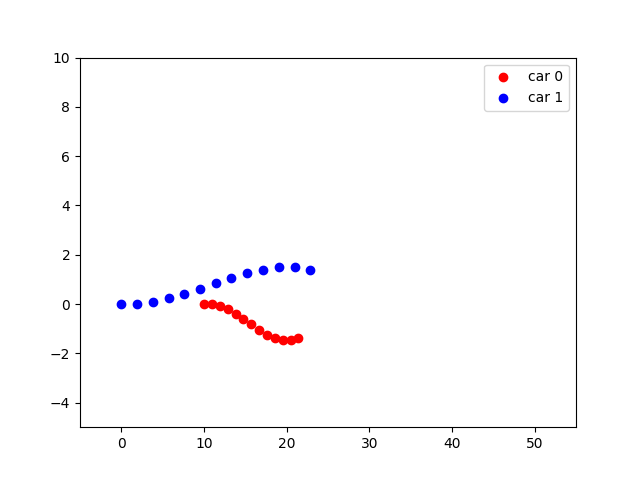
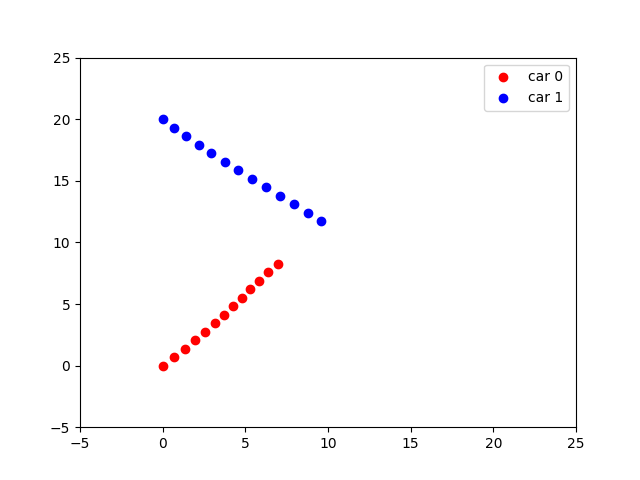
Finished the stop sign scenario.

diff --git a/CFS_planner.py b/CFS_planner.py
@@ -98,8 +98,8 @@ def path_rendering(pathnew, num):
         for j in range(num):
             x[j] = car_path[j][i, 0]
             y[j] = car_path[j][i, 1]
-            plt.xlim(-5, 55)
-            plt.ylim(-5, 10)
+            plt.xlim(-5, 25)
+            plt.ylim(-5, 25)
             plt.scatter(x[j], y[j], marker = 'o', color = COLOR[j])
             plot_legend.append('car {}'.format(j))
         plt.legend(plot_legend, loc = 'upper right')
@@ -118,7 +118,6 @@ def Plan_trajectory(MAX_ITER, multi_path, mini_distance):
     Returns:
         pathnew: Planned path for multiple cars.
     '''
-	#mini_distance = 20
     Qref, Qabs, nstep, dim, oripath, I_2 = Setup_problem(multi_path)
     refpath = oripath
     print("refpath shape is:{}".format(refpath.shape))
@@ -127,7 +126,6 @@ def Plan_trajectory(MAX_ITER, multi_path, mini_distance):
     n = nstep * dim
     print("n is: {}".format(n))
 
-    
     for i in range(MAX_ITER):
         print(i)
         x = Variable(n)
@@ -153,12 +151,8 @@ def Plan_trajectory(MAX_ITER, multi_path, mini_distance):
                     #print(A[0, 0:2].shape, x[dim*j:dim*(j+1)][2*l:2*(l+1)].shape, b.shape)
                     cons = A[0, 0:2].reshape(1,2)@x[dim*j:dim*(j+1)][2*l:2*(l+1)] + A[0, 2:4].reshape(1,2)@x[dim*j:dim*(j+1)][2*m:2*(m+1)] <= b
                     constraints.append(cons)
-                    #break
-                #break
             
             # Define priority constraint
-            # ...
-            #print("x_ref_1 shape: {}, x_ref_2 shape: {}".format(x_ref_1.shape, x_ref_2.shape))
             if j < nstep-1:
                 coe1 = get_line(x_ref_1[0], x_ref_1[1], x_ref_2[0], x_ref_2[1])
                 coe2 = get_line(x_ref_1[2], x_ref_1[3], x_ref_2[2], x_ref_2[3])

diff --git a/CFS_problem.py b/CFS_problem.py
@@ -7,15 +7,18 @@ def define_path():
     Define initial reference paths for multiple cars.
     Return:
         multi_path: Shape: num_cars x nsteps x 2. Paths for number of cars.
+    Note:
+        When creating path_i, the length and the resolution of the path should be modified 
+        so that every path has the same number of path points.
     '''
     multi_path = []
     # Define path 0
-    path_seg_0 = np.array([[10, 0], [30, 0]])
+    path_seg_0 = np.array([[0, 0], [20, 20]])
     path_0 = get_path(path_seg_0, 1)
     multi_path.append(path_0)
     # Define path 1
-    path_seg_1 = np.array([[0, 0.01], [40, 0.01]])
-    path_1 = get_path(path_seg_1, 2)
+    path_seg_1 = np.array([[0, 20], [20, 0]])
+    path_1 = get_path(path_seg_1, 1)
     # print(path_1.shape)
     # print(path_1)
     multi_path.append(path_1)
